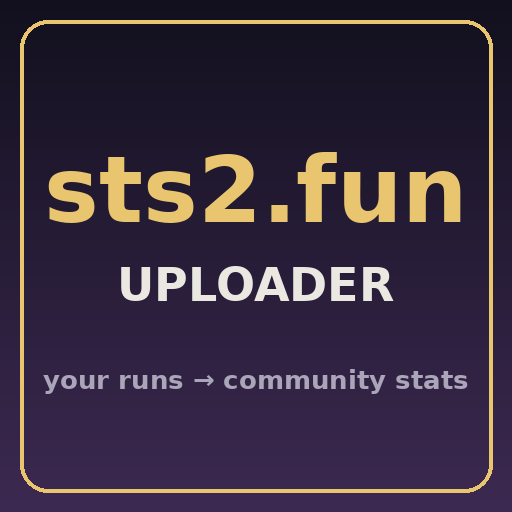
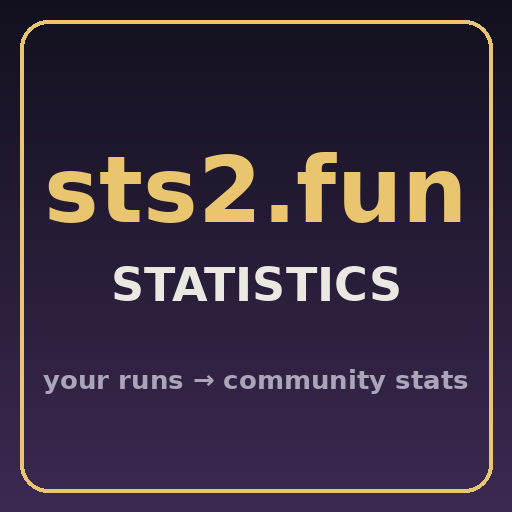
Rename to "sts2.fun statistics" (id sts2fun_stats); fix manifest JSON
Claude-Session: https://claude.ai/code/session_01S2m4VzmenhmLWpYCvkRkVx

Changed region(s): [[0.2188, 0.5, 0.7812, 0.5938]]

diff --git a/Uploader.cs b/Uploader.cs
@@ -47,11 +47,11 @@ public static class Uploader
         try
         {
             _userDir = OS.GetUserDataDir();
-            _stateDir = Path.Combine(_userDir, "sts2fun_uploader");
+            _stateDir = Path.Combine(_userDir, "sts2fun_stats");
             _cfg = Config.Load(_stateDir);
             _state = State.Load(_stateDir);
-            Http.DefaultRequestHeaders.UserAgent.ParseAdd("sts2fun-uploader/0.1 (+https://sts2.fun)");
-            new Harmony("sts2fun.uploader").PatchAll(typeof(Uploader).Assembly);
+            Http.DefaultRequestHeaders.UserAgent.ParseAdd("sts2fun-stats/0.1 (+https://sts2.fun)");
+            new Harmony("sts2fun.stats").PatchAll(typeof(Uploader).Assembly);
             GD.Print($"{Tag} loaded; uploads {(_cfg.Enabled ? "ON" : "OFF")} -> {_cfg.Server}");
             if (_cfg.Enabled) Schedule(TimeSpan.FromSeconds(20), "startup");
         }
@@ -204,7 +204,7 @@ public static class Uploader
         _badge.Uri = string.IsNullOrEmpty(_state.Username) ? _cfg.Server : $"{_cfg.Server.TrimEnd('/')}/player/{_state.Username}";
         _badge.TooltipText = _cfg.Enabled
             ? "Your runs upload to sts2.fun after each run. Click to open your page."
-            : "Uploading is off. To turn it back on, set \"Enabled\": true in sts2fun_uploader/config.json (game user data folder).";
+            : "Uploading is off. To turn it back on, set \"Enabled\": true in sts2fun_stats/config.json (game user data folder).";
     }
 }
 
@@ -218,7 +218,7 @@ static class Patch_NMainMenu_Ready
     }
 }
 
-/// <user data>/sts2fun_uploader/state.json: the account the site assigned.
+/// <user data>/sts2fun_stats/state.json: the account the site assigned.
 sealed class State
 {
     public string Username { get; set; } = "";
@@ -248,7 +248,7 @@ static class Patch_RunManager_CleanUp
     static void Postfix() => Uploader.OnRunEnded();
 }
 
-/// <user data>/sts2fun_uploader/config.json (created on first launch).
+/// <user data>/sts2fun_stats/config.json (created on first launch).
 sealed class Config
 {
     /// Uploads are on unless the player sets this to false (installing the mod is the opt-in).

diff --git a/README.md b/README.md
@@ -1,4 +1,4 @@
-# sts2.fun Uploader
+# sts2.fun statistics
 
 A Slay the Spire 2 mod that uploads your finished runs to [sts2.fun](https://sts2.fun),
 the community stats site, so they count in the statistics and appear on your player page.
@@ -19,7 +19,7 @@ each upload so new runs go to the right account.
 
 ## Turning it off
 
-Set `"Enabled": false` in `sts2fun_uploader/config.json` in the game's user data folder
+Set `"Enabled": false` in `sts2fun_stats/config.json` in the game's user data folder
 (Linux: `~/.local/share/SlayTheSpire2/`, Windows: `%APPDATA%/SlayTheSpire2/`), or unsubscribe.
 
 ## Building
@@ -31,5 +31,5 @@ dotnet build -c Release            # GameDir defaults to the Linux Steam path
 dotnet build -c Release -p:GameDir="C:/Program Files (x86)/Steam/steamapps/common/Slay the Spire 2"
 ```
 
-Then copy `manifest.json` and `bin/Release/net9.0/sts2fun_uploader.dll` into
-`<game folder>/mods/sts2fun_uploader/`.
+Then copy `manifest.json` and `bin/Release/net9.0/sts2fun_stats.dll` into
+`<game folder>/mods/sts2fun_stats/`.
